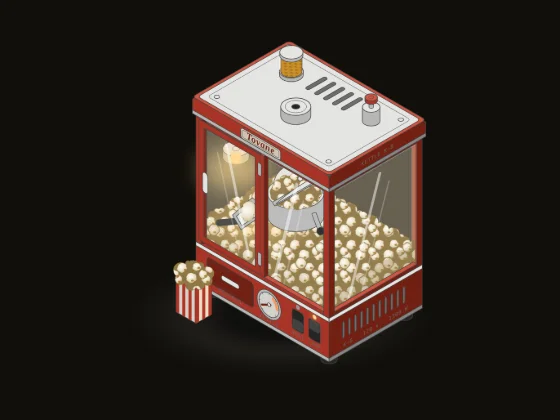
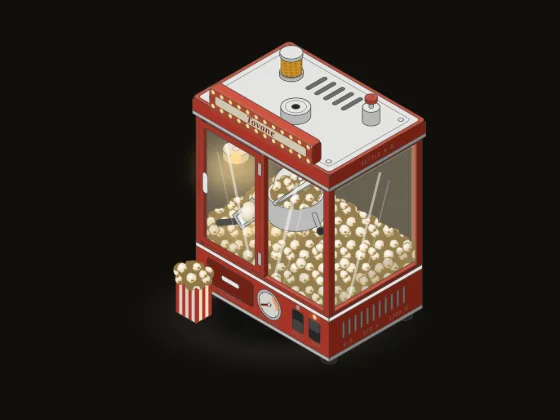
Put the popcorn machine's brand on a marquee and finish its pieces
A light box along the front of the roof carries the brand in the house
serif, small, between rows of bulbs that chase while the kettle pops and
stay lit at rest. It replaces the plate on the header and breaks up the
roof, which read as a plain slab.

The kettle's lids now open left and right on a hinge bar that runs front
to back, as a kettle seen from the counter does, so the lid lifted away
reads as a flap instead of an edge. A sparse second layer of popcorn
breaks the heap's pattern, the scoop is a cupped pan that rests loaded
in the heap, and pieces in flight inside the cabinet stay behind the
glass, the mullion and the posts. Fresh corn buries the butter.

Changed region(s): [[0.3643, 0.1857, 0.5768, 0.4024]]

diff --git a/packages/miniatures/src/figures/popcorn-machine.ts b/packages/miniatures/src/figures/popcorn-machine.ts
@@ -35,7 +35,7 @@ const css = `:root{color-scheme:light dark;--bg:#f4f3ef;--ink:#323232;--muted:#8
 .butter{fill:url(#butterG);stroke:none;opacity:0;pointer-events:none}.pool{fill:url(#lampG);opacity:var(--glow-a);pointer-events:none}
 .pc{fill:url(#puffG);stroke:var(--corn-line);stroke-width:.45;vector-effect:non-scaling-stroke;pointer-events:none}.burst{fill:none;stroke:var(--lamp);stroke-width:.8;stroke-linecap:round;vector-effect:non-scaling-stroke;pointer-events:none}
 .kernels{fill:url(#kernP)}.heat{fill:var(--heat);opacity:0;filter:url(#bloom);pointer-events:none}.skin{fill:var(--heat);stroke:none;opacity:0;pointer-events:none}
-.bulb{fill:var(--lamp);filter:url(#glow)}.bloom{fill:var(--lamp);opacity:calc(var(--glow-a)*1.15);filter:url(#bloom);pointer-events:none}
+.bulb{fill:var(--lamp);filter:url(#glow)}.bulb-b{fill:var(--off);stroke:var(--line);stroke-width:.4;vector-effect:non-scaling-stroke}.bulb-b.on{fill:var(--lamp);filter:url(#glow)}.bloom{fill:var(--lamp);opacity:calc(var(--glow-a)*1.15);filter:url(#bloom);pointer-events:none}
 .lamp{fill:var(--off)}.lamp.on{fill:var(--heat);filter:url(#glow)}.lamp.lit{fill:var(--lamp);filter:url(#glow)}
 .dial{fill:var(--card)}.zone{fill:none;stroke:var(--heat);stroke-width:1.2;opacity:.8}.needle{stroke:var(--paint-side);stroke-width:.7;stroke-linecap:round}
 .stripes{fill:url(#stripes);stroke:none}.grip-u{fill:none;stroke:var(--line);stroke-width:2.6;stroke-linecap:round}.grip{fill:none;stroke:var(--rubber-top);stroke-width:1.5;stroke-linecap:round}.stream{fill:none;stroke:var(--butter);stroke-width:1.1;stroke-linecap:round;stroke-dasharray:2.2 1.2;opacity:0;pointer-events:none}.pour{fill:none;stroke:var(--kernel);stroke-width:1.3;stroke-linecap:round;stroke-dasharray:.8 1.6;opacity:0;pointer-events:none}
@@ -170,9 +170,9 @@ el('path',{d:'M-3.6,-3.4L6.4,-5.4Q8.6,-1.6 7.8,2.4L-3.6,3.2Z',class:'face chrome
 const PCS=[0,1,2].map(s=>puff(0,0,1.9,5,s*1.7+.4)),pcs=Array.from({length:30},(_,i)=>({n:el('path',{d:PCS[i%3],class:'pc',display:'none'}),on:0}));
 const bursts=Array.from({length:8},()=>({n:el('path',{d:'M0,-1.6V-3.1M1.5,-.8L2.7,-1.5M1.5,.8L2.7,1.5M0,1.6V3.1M-1.5,.8L-2.7,1.5M-1.5,-.8L-2.7,-1.5',class:'burst',display:'none'}),t:-1}));
 into(draw);
-// The roof: painted, its header with the brand plate; the stirrer motor, the kernel jar (N) and the butter pump (B) on top.
+// The roof: painted, a chrome band round its header; the stirrer motor, the kernel jar (N) and the butter pump (B) on top.
 box(-.8,-.8,70,61.6,43.6,6.5,1.4,'paint');
-const RF=group(FRONT(-.8,42.85,76.5));rect(RF,0,5.1,61.6,1.4,0,'face chrome');rect(RF,21.8,1,18,4.1,1,'face enamel');rect(RF,22.5,1.6,16.6,2.9,.7,'detail');text(RF,30.8,4.15,'Tovane','maker');
+rect(group(FRONT(-.8,42.85,76.5)),0,5.1,61.6,1.4,0,'face chrome');
 const RS=group(SIDE(60.85,42.8,76.5));rect(RS,0,5.1,43.6,1.4,0,'face side chrome');text(RS,21.8,3.6,'KETTLE K–8','etch micro center');
 {const g=group(TOP(-.8,-.8,76.52));rect(g,1.2,1.2,59.2,41.2,1.4,'face top chrome');rect(g,3.4,3.4,54.8,36.8,1.2,'detail');for(const u of[22,26,30,34,38])rect(g,u,6,1.6,9,.8,'face recess');for(const[u,v]of[[5.6,5.6],[56,5.6],[5.6,38.2],[56,38.2]])circle(g,u,v,.9,'face top chrome');}
 const motor=cylinder(30,27,76.5,4.8,3.6,'z','chrome');circle(motor.face,0,0,3.4,'detail');circle(motor.face,0,0,1.3,'face rubber');
@@ -185,6 +185,11 @@ const pumpG=ctl(el('g',{}),'Butter pump: drizzle butter over the popcorn (B)');i
 cylinder(49,12,76.5,2.8,5.4,'z','chrome');const plunger=el('g',{});into(plunger);cylinder(49,12,81.9,.7,2.6,'z','chrome');const knobCap=cylinder(49,12,84.4,2,1.3,'z','paint');circle(knobCap.face,0,0,.8,'detail');into(pumpG);
 {const c=P(49,12,81);circle(pumpG,c[0],c[1],6.2,'hit');circle(pumpG,c[0],c[1]-.5,6.8,'focus-ring');}
 into(draw);
+// The marquee: a light box along the roof's front edge, bulbs round its face (they chase while it pops), the brand small
+// in the middle.
+box(7,38.6,76.5,46,4.2,7.4,1,'paint');
+const MQ=group(FRONT(7,42.85,83.9));rect(MQ,2.4,1.9,41.2,3.6,.9,'face enamel');text(MQ,23,4.85,'Tovane','maker');
+const BULBS=Array.from({length:24},(_,i)=>{const c=i>>1,row=i&1;return{n:circle(MQ,1.5+c*3.9,row?6.4:1,.85,'bulb-b'),k:row?23-c:c};});let chased=null;
 frame([[-.8,-.8,0,61.6,43.6,86],[20.5,42,21,8.5,26,47.6],[3,43,0,25,11.5,15]],10);
 
 // State. The kettle heats (Space) and pops its charge of kernels: slow first pops, a crackling middle, a tail; the corn
@@ -202,7 +207,7 @@ function hiss(dur,v,f,q=1,when=0){const a=ac;if(!a)return;try{if(!nb){nb=a.creat
 const popSound=()=>{hiss(.035,.05,rnd(1400,3200),2.2);tone(rnd(380,700),.03,.012,'triangle');};
 // How much the heap may hold now: the target as a progress indicator, else the brim and a little over (the spill).
 const cap=()=>mode==='det'&&!finish?target:1.06;
-function popAll(){const n=min(charge,Math.ceil(max(0,cap()-fill)/PER));if(n<=0)return;charge-=n;pops+=n;fill=min(cap(),fill+n*PER);kv=.42;lidA=.45;}
+function popAll(){const n=min(charge,Math.ceil(max(0,cap()-fill)/PER));if(n<=0)return;charge-=n;pops+=n;butter=max(0,butter-n*PER*4);fill=min(cap(),fill+n*PER);kv=.42;lidA=.45;}
 function heatKey(){audio();heat=!heat;started=true;tone(heat?90:70,.25,.02,'sine',0,heat?140:50);if(heat&&!charge){charge=BATCH;bp=0;}notice(heat?'HEAT ON · KETTLE WARMING':'HEAT OFF · KETTLE COOLING',heat?'Kettle heat on. The kernels will start to pop.':'Kettle heat off.');sync();}
 function batchKey(){audio();if(!charge)bp=0;charge=min(2*BATCH,charge+BATCH);pourT=performance.now();kick=1;hiss(.7,.015,5200,1.2);notice('NEW BATCH · KERNELS IN','A new batch of kernels drops into the kettle.');}
 function butterKey(){audio();butterT=performance.now();if(reduced.matches)butter=1;tone(230,.35,.02,'sine',0,150);notice('BUTTER · DRIZZLING','Warm butter drizzles over the popcorn.');}
@@ -217,7 +222,7 @@ function sync(){set(heatSw,'aria-pressed',heat);set(HR.k,'transform',heat?'':'tr
 // Pieces in flight: from the rim, out of the door, from the scoop into the box. They land, bounce once, and go.
 function spawn(kind,p,v){const s=pcs.find(q=>!q.on)||pcs.reduce((a,b)=>a.t<b.t?a:b);Object.assign(s,{on:1,kind,p:[...p],v:[...v],a:rnd(0,360),va:rnd(-400,400),t:performance.now(),hit:0});(kind==='in'?inner:outer).appendChild(s.n);set(s.n,'display','inline');}
 function fromRim(K,lift){const a=random()<.8?rnd(.05,.95)*PI:rnd(0,2)*PI,r=KR*rnd(.6,1),d=add(mul(K.U,cos(a)),mul(K.V,sin(a)));spawn('in',K.at(r*cos(a),r*sin(a),lift),add(mul(d,rnd(7,17)),[0,0,rnd(14,30)]));}
-function popOne(now,K){charge--;pops++;bp++;temp-=.12;kv=min(1,kv+.022);kick=min(1,kick+.35);fill=min(cap(),fill+PER);rate+=1;
+function popOne(now,K){charge--;pops++;bp++;butter=max(0,butter-PER*4);temp-=.12;kv=min(1,kv+.022);kick=min(1,kick+.35);fill=min(cap(),fill+PER);rate+=1;
 if(random()<.42)fromRim(K,1+kv*5);const b=bursts.find(q=>q.t<0);if(b){const a=rnd(.1,.9)*PI,r=KR*rnd(.15,.85),q=P(...K.at(r*cos(a),r*sin(a),1.5+kv*6*random()));b.t=now;b.x=q[0];b.y=q[1];b.r=rnd(0,60);set(b.n,'display','inline');}
 if(ac&&random()<(rate>20?.45:1))popSound();}
 function fly(dt,now){for(const s of pcs){if(!s.on)continue;const p=s.p,v=s.v;v[2]-=150*dt;for(let i=0;i<3;i++)p[i]+=v[i]*dt;s.a+=s.va*dt;
@@ -285,6 +290,7 @@ const pt2=red?1:(now-pourT)/900;set(pourS,'style',`opacity:${pt2>.02&&pt2<1?.95:
 // Heat: the kettle's glow and skin, the thermometer.
 const hk=clamp((temp-60)/170);kGlow.style.opacity=f2(hk*.7);kSkin.style.opacity=f2(hk*.3);set(needle,'transform',`rotate(${f2(ang(temp))})`);
 if(!red)fly(dt,now);for(const b of bursts){if(b.t<0)continue;const k=(now-b.t)/220;if(k>=1||red){b.t=-1;set(b.n,'display','none');continue;}set(b.n,'transform',`translate(${f2(b.x)} ${f2(b.y)}) rotate(${f2(b.r)}) scale(${f2(.6+.9*k)})`);b.n.style.opacity=f2(1-k);}
+const ch=heat&&!red?Math.floor(now/150)%3:-1;if(ch!==chased){chased=ch;for(const b of BULBS)set(b.n,'class',ch<0||(b.k+ch)%3?'bulb-b on':'bulb-b');}
 redraw();if(lastUI<0||now-lastUI>120)ui(now);requestAnimationFrame(tick);}
 // Input: Space heats, N a new batch, B butter, S (or the door) scoops; Enter and Space on a focused part are its own.
 document.addEventListener('keydown',e=>{if(e.ctrlKey||e.metaKey||e.altKey||e.repeat||e.defaultPrevented)return;const k=e.key.toLowerCase();if((k===' '||k==='enter')&&e.target&&e.target.closest&&e.target.closest('[role=button]'))return;

diff --git a/packages/miniatures/src/meta/popcorn-machine.ts b/packages/miniatures/src/meta/popcorn-machine.ts
@@ -10,7 +10,7 @@ export const popcornMachine = {
   spec: 'K–8 / 8 OZ KETTLE · HEAT LAMP · TEMPERED GLASS',
   label: 'Popcorn machine, TOVANE K–8',
   description:
-    'A cinema popcorn machine on the counter: a red cabinet of glass with a steel kettle hanging from the roof, a heat lamp, a door at the front and a scoop inside, a kernel jar and a butter pump on top, and a striped box beside it. It heats and pops on its own: the first kernels pop slowly, then in a crackling rush that lifts the lids and tumbles popcorn onto the heap, and the empty kettle tips forward to dump the rest. Left running, the cabinet fills until it overflows and the door bursts open onto the counter. Space switches the kettle’s heat off and on, N drops a new batch, B drizzles butter, and S or a click on the door scoops a box. As a progress indicator the heap fills with the progress, and done pops it to the brim and over.',
+    'A cinema popcorn machine on the counter: a red cabinet of glass under a marquee of bulbs, with a steel kettle hanging from the roof, a heat lamp, a door at the front and a scoop inside, a kernel jar and a butter pump on top, and a striped box beside it. It heats and pops on its own: the first kernels pop slowly, then in a crackling rush that lifts the lids and tumbles popcorn onto the heap, and the empty kettle tips forward to dump the rest. Left running, the cabinet fills until it overflows and the door bursts open onto the counter. Space switches the kettle’s heat off and on, N drops a new batch, B drizzles butter, and S or a click on the door scoops a box. As a progress indicator the heap fills with the progress, and done pops it to the brim and over.',
   keys: [
     { keys: [' '], caps: ['Space'], label: 'heat on / off' },
     { keys: ['n'], caps: ['N'], label: 'new batch' },

diff --git a/packages/miniatures/src/popcorn-machine.tsx b/packages/miniatures/src/popcorn-machine.tsx
@@ -12,7 +12,7 @@ export interface MiniaturePopcornMachineProps extends MiniatureProgressProps {
 }
 
 /**
- * TOVANE K–8, popcorn machine. A cinema popcorn machine on the counter: a red cabinet of glass with a steel kettle hanging from the roof, a heat lamp, a door at the front and a scoop inside, a kernel jar and a butter pump on top, and a striped box beside it. It heats and pops on its own: the first kernels pop slowly, then in a crackling rush that lifts the lids and tumbles popcorn onto the heap, and the empty kettle tips forward to dump the rest. Left running, the cabinet fills until it overflows and the door bursts open onto the counter. Space switches the kettle’s heat off and on, N drops a new batch, B drizzles butter, and S or a click on the door scoops a box. As a progress indicator the heap fills with the progress, and done pops it to the brim and over.
+ * TOVANE K–8, popcorn machine. A cinema popcorn machine on the counter: a red cabinet of glass under a marquee of bulbs, with a steel kettle hanging from the roof, a heat lamp, a door at the front and a scoop inside, a kernel jar and a butter pump on top, and a striped box beside it. It heats and pops on its own: the first kernels pop slowly, then in a crackling rush that lifts the lids and tumbles popcorn onto the heap, and the empty kettle tips forward to dump the rest. Left running, the cabinet fills until it overflows and the door bursts open onto the counter. Space switches the kettle’s heat off and on, N drops a new batch, B drizzles butter, and S or a click on the door scoops a box. As a progress indicator the heap fills with the progress, and done pops it to the brim and over.
  *
  * Keys: Space heat on / off · N new batch · B butter · S scoop · or click the door.
  */

diff --git a/.changeset/miniature-popcorn-machine.md b/.changeset/miniature-popcorn-machine.md
@@ -2,4 +2,4 @@
 '@youj/miniatures': patch
 ---
 
-New miniature: the popcorn machine (`MiniaturePopcornMachine`, `@youj/miniatures/popcorn-machine`), for loading states, celebrations, entertainment and media. A cinema popcorn machine on the counter: a red cabinet of glass with a steel kettle hanging from the roof, a heat lamp, a door and a scoop. It heats and pops on its own: the first kernels pop slowly, then in a crackling rush that lifts the kettle's lids and tumbles popcorn onto the heap, and the empty kettle tips forward to dump the rest. Left running, the cabinet fills until it overflows and the door bursts open onto the counter. Space switches the kettle's heat off and on, N drops a new batch, B drizzles butter, and S or a click on the door scoops a box. It's also a progress indicator: the heap fills with `progress`, and `done` pops it to the brim and over. With reduced motion it jumps between states instead.
+New miniature: the popcorn machine (`MiniaturePopcornMachine`, `@youj/miniatures/popcorn-machine`), for loading states, celebrations, entertainment and media. A cinema popcorn machine on the counter: a red cabinet of glass under a marquee of bulbs, with a steel kettle hanging from the roof, a heat lamp, a door and a scoop. It heats and pops on its own: the first kernels pop slowly, then in a crackling rush that lifts the kettle's lids and tumbles popcorn onto the heap, and the empty kettle tips forward to dump the rest. Left running, the cabinet fills until it overflows and the door bursts open onto the counter. Space switches the kettle's heat off and on, N drops a new batch, B drizzles butter, and S or a click on the door scoops a box. It's also a progress indicator: the heap fills with `progress`, and `done` pops it to the brim and over. With reduced motion it jumps between states instead.
